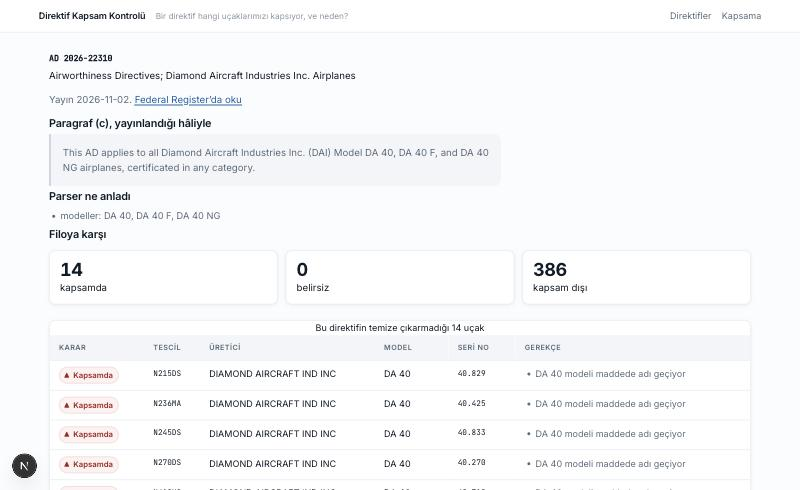
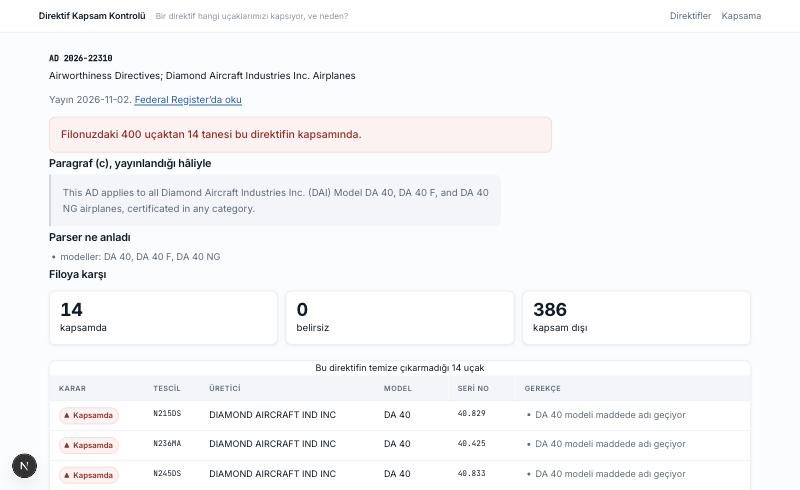
feat(web): lead the detail screen with the answer
The page opened with the regulation text and buried the conclusion under the
parser output and three counters, so a reader had to work to find out whether
the directive affected them at all.

Also translates the remaining English strings on this screen.

Assisted-by: Claude Code (Opus 5)

diff --git a/app/directives/[documentNumber]/page.tsx b/app/directives/[documentNumber]/page.tsx
@@ -74,6 +74,26 @@ export default async function DirectivePage({ params }: PageProps) {
     ({ verdict }) => verdict.kind === "does_not_apply",
   );
 
+  const fleetSize = counts.applies + counts.undetermined + counts.doesNotApply;
+  const answer =
+    assessment.parsed === null
+      ? "Bu maddeyi motor çözümleyemedi, bir kişinin okuması gerekiyor."
+      : counts.applies === 0 && counts.undetermined === 0
+        ? `Bu direktif filonuzu etkilemiyor: ${fleetSize} uçağın hepsi kapsam dışı.`
+        : counts.applies > 0 && counts.undetermined === 0
+          ? `Filonuzdaki ${fleetSize} uçaktan ${counts.applies} tanesi bu direktifin kapsamında.`
+          : counts.applies === 0
+            ? `Karar verilemedi: ${counts.undetermined} uçak için madde, motorun elinde olmayan bir belgeye dayanıyor.`
+            : `${counts.applies} uçak kapsamda, ${counts.undetermined} uçak için karar verilemedi.`;
+  const answerTone =
+    assessment.parsed === null
+      ? "answer-unknown"
+      : counts.applies > 0
+        ? "answer-applies"
+        : counts.undetermined > 0
+          ? "answer-unknown"
+          : "answer-clear";
+
   return (
     <div className="stack">
       <h1 className="mono">AD {directive.documentNumber}</h1>
@@ -83,15 +103,19 @@ export default async function DirectivePage({ params }: PageProps) {
         <a href={directive.sourceUrl}>Federal Register’da oku</a>
       </p>
 
+      {/* The answer first. Everything below it is the evidence for the answer,
+          and an evidence-first page makes the reader hunt for the conclusion. */}
+      <p className={`answer ${answerTone}`}>{answer}</p>
+
       <h2>Paragraf (c), yayınlandığı hâliyle</h2>
       <blockquote className="clause">{directive.applicability}</blockquote>
 
       <h2>Parser ne anladı</h2>
       {assessment.parsed === null ? (
         <p className="notice notice-info">
-          The grammar could not extract a single constraint from this clause, so no aircraft was
-          evaluated against it. This directive has to be read by a person. It is counted as
-          unparsed on the coverage page.
+          Dilbilgisi bu maddeden tek bir kısıt çıkaramadı, o yüzden hiçbir uçak
+          değerlendirilmedi. Bu direktifi bir kişinin okuması gerekiyor; kapsama sayfasında
+          çözümlenemeyen olarak sayılıyor.
         </p>
       ) : (
         <ul className="recognized">
@@ -104,7 +128,8 @@ export default async function DirectivePage({ params }: PageProps) {
       <h2>Filoya karşı</h2>
       {assessment.parsed === null ? (
         <p className="muted">
-          Nothing to show: an unparsed clause produces no verdicts rather than a default one.
+          Gösterilecek bir şey yok: çözümlenemeyen bir madde varsayılan bir karar değil, hiç
+          karar üretmiyor.
         </p>
       ) : (
         <>
@@ -123,12 +148,9 @@ export default async function DirectivePage({ params }: PageProps) {
             </li>
           </ul>
 
-          {needsAttention.length === 0 ? (
-            <p className="notice notice-ok">
-              Bu filoda kapsamda ya da belirsiz tek bir uçak yok. {counts.doesNotApply} uçağın hepsi
-              kesin olarak kapsam dışı.
-            </p>
-          ) : (
+          {/* The all-clear case needs no table and no second notice: the answer
+              at the top of the page already says it. */}
+          {needsAttention.length > 0 && (
             <AircraftTable
               rows={needsAttention}
               caption={`Bu direktifin temize çıkarmadığı ${needsAttention.length} uçak`}
@@ -140,14 +162,14 @@ export default async function DirectivePage({ params }: PageProps) {
           {cleared.length > 0 && (
             <details>
               <summary>Kapsam dışı kalan {cleared.length} uçağı göster</summary>
-              <AircraftTable rows={cleared} caption={`${cleared.length} aircraft out of scope`} />
+              <AircraftTable rows={cleared} caption={`Kapsam dışı ${cleared.length} uçak`} />
             </details>
           )}
 
           <h2>Kaydet</h2>
           <p className="prose muted">
-            Stores this run with the parser version that produced it, so the verdicts can be
-            defended later. Needs Postgres: <code>docker compose up -d</code>.
+            Bu değerlendirmeyi, onu üreten parser sürümüyle birlikte saklar; kararlar sonradan
+            savunulabilsin diye. Postgres gerekiyor: <code>docker compose up -d</code>.
           </p>
           <RecordRun documentNumber={directive.documentNumber} />
         </>

diff --git a/app/globals.css b/app/globals.css
@@ -538,3 +538,32 @@ td.mono a {
 td.mono a:hover {
   text-decoration: underline;
 }
+
+/* The answer, before the evidence. */
+.answer {
+  margin: 0.9rem 0 0;
+  padding: 0.85rem 1.1rem;
+  border: 1px solid transparent;
+  border-radius: var(--radius);
+  font-size: 1.02rem;
+  font-weight: 500;
+  max-width: var(--measure);
+}
+
+.answer-applies {
+  color: var(--applies);
+  background: var(--applies-bg);
+  border-color: var(--applies-ring);
+}
+
+.answer-clear {
+  color: var(--clear);
+  background: var(--clear-bg);
+  border-color: var(--clear-ring);
+}
+
+.answer-unknown {
+  color: var(--unknown);
+  background: var(--unknown-bg);
+  border-color: var(--unknown-ring);
+}
